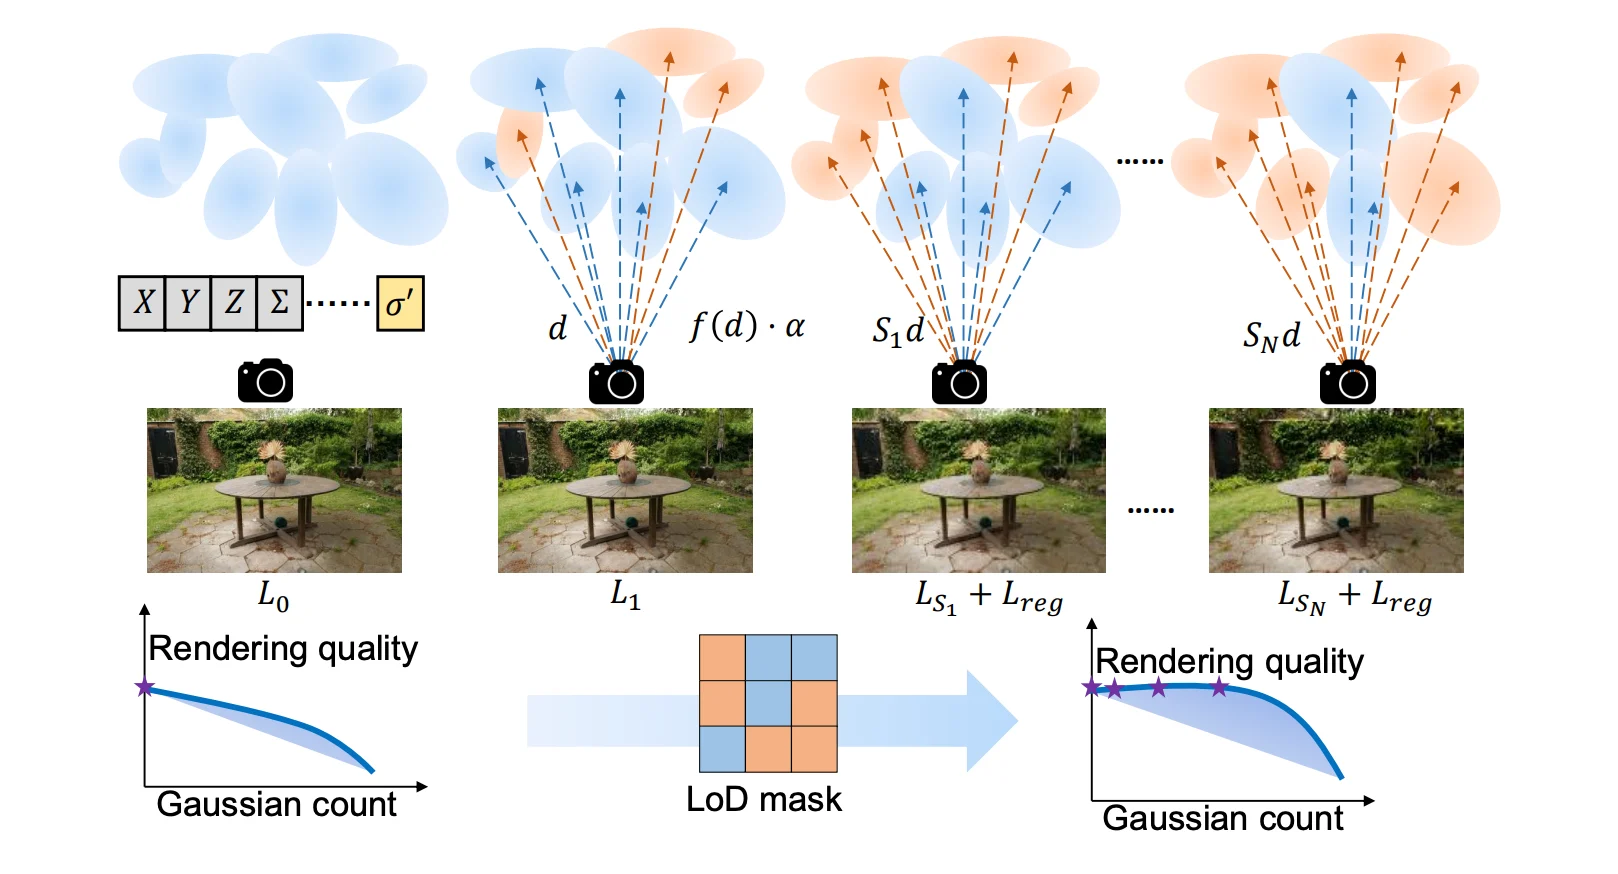
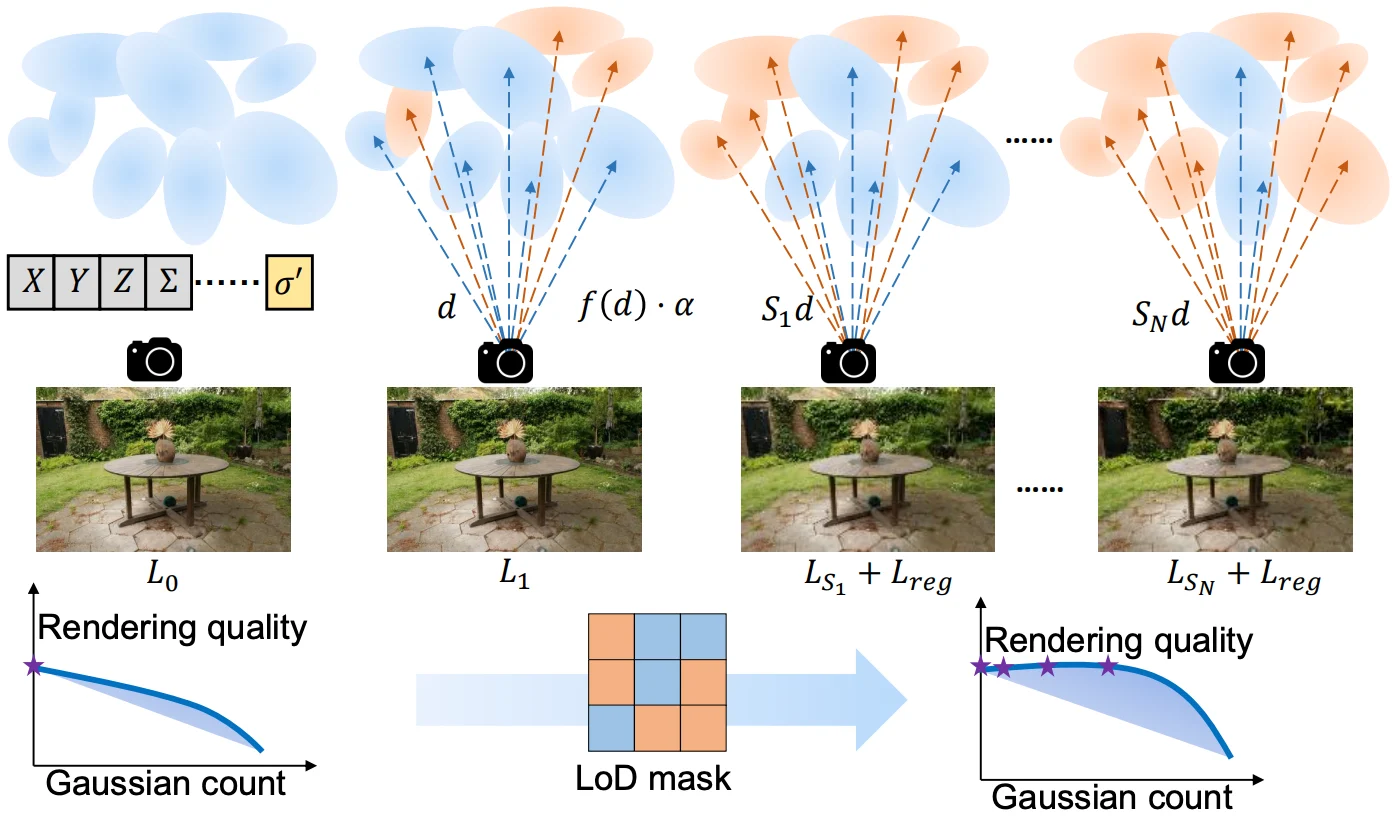
Publications: card polish (glow border, frame, alignment, thumbnails)
- hover flowing-light border (rotating mint->blue ring) on pub cards
- restore uniform 16/10 media height for white-bg figures (grid alignment)
- SocialNav: white keyline frame, GitHub code link, Proj Page chip
- CLoD-GS: trim baked-in white margins (1618x874 -> 1396x816), new highlight
- DO-Conv authors fit one line (author font 0.85 -> 0.8rem)
- citation badges at >=30 (4,357 / 351 / 50 / 37)

diff --git a/src/data/site.ts b/src/data/site.ts
@@ -229,6 +229,7 @@ export interface Publication {
   highlight?: string; // English one-liner (titles stay English to control maintenance)
   thumb?: string; // teaser figure path under /pub (e.g. '/pub/pointcnn.webp')
   whiteThumb?: boolean; // figure has a white bg → show whole image (contain) on a white field
+  frame?: boolean; // photo figure → draw a thin white keyline around it
   featured?: boolean; // flagship papers get an accent treatment
   award?: string; // honor/distinction badge shown on the card
   links: { label: string; url: string; stars?: number }[]; // stars → GitHub ⭐ count
@@ -342,9 +343,11 @@ export const publications: Publication[] = [
     highlight: 'A human-inspired foundation model for socially-aware embodied navigation.',
     thumb: '/pub/socialnav.webp',
     featured: true,
+    frame: true,
     links: [
       { label: 'arXiv', url: 'https://arxiv.org/abs/2511.21135' },
-      { label: 'project', url: 'https://amap-eai.github.io/SocialNav/' },
+      { label: 'code', url: 'https://github.com/AMAP-EAI/SocialNav' },
+      { label: 'projpage', url: 'https://amap-eai.github.io/SocialNav/' },
     ],
   },
   {
@@ -353,7 +356,7 @@ export const publications: Publication[] = [
     venue: 'ICLR',
     year: 2026,
     citations: 3,
-    highlight: 'Continuous level-of-detail rendering built on 3D Gaussian Splatting.',
+    highlight: 'A framework that integrates a continuous LoD mechanism directly into a 3DGS representation.',
     thumb: '/pub/clodgs.webp',
     whiteThumb: true,
     featured: true,
@@ -382,7 +385,7 @@ export const publications: Publication[] = [
     authors: 'L Cheng, Z Wei, M Sun, S Xin, A Sharf, Y Li, B Chen, C Tu',
     venue: 'Graphical Models',
     year: 2020,
-    citations: 49,
+    citations: 50,
     highlight: 'Reconstructing 3D pipeline structures from point clouds.',
     thumb: '/pub/deeppipes.webp',
     whiteThumb: true,
